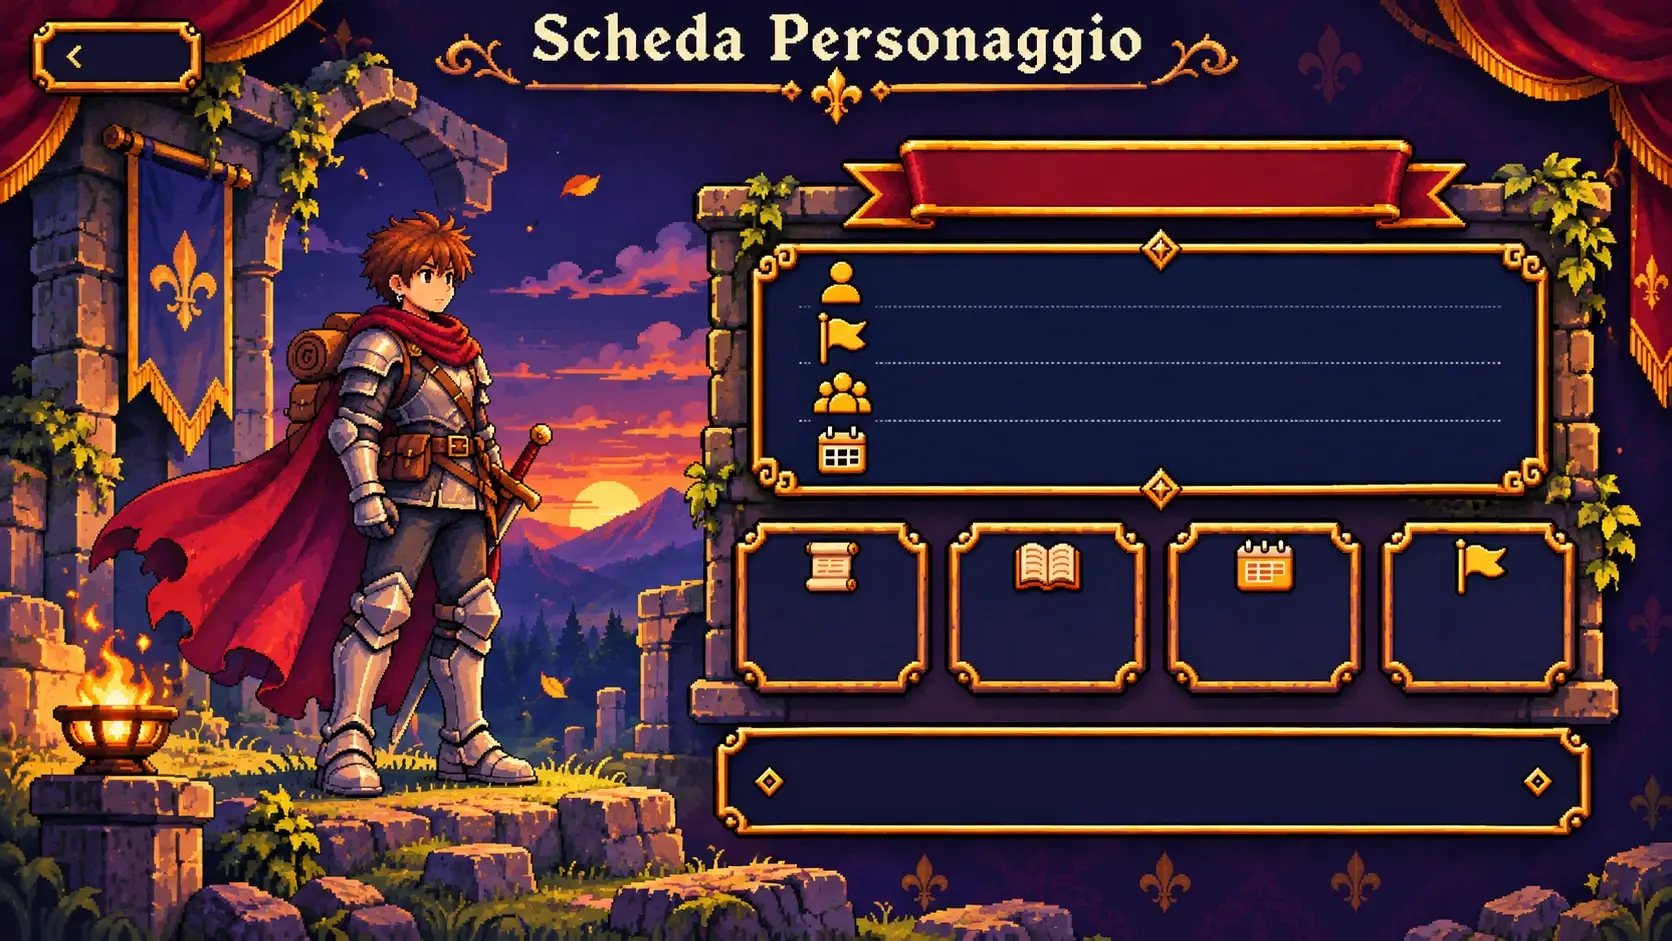
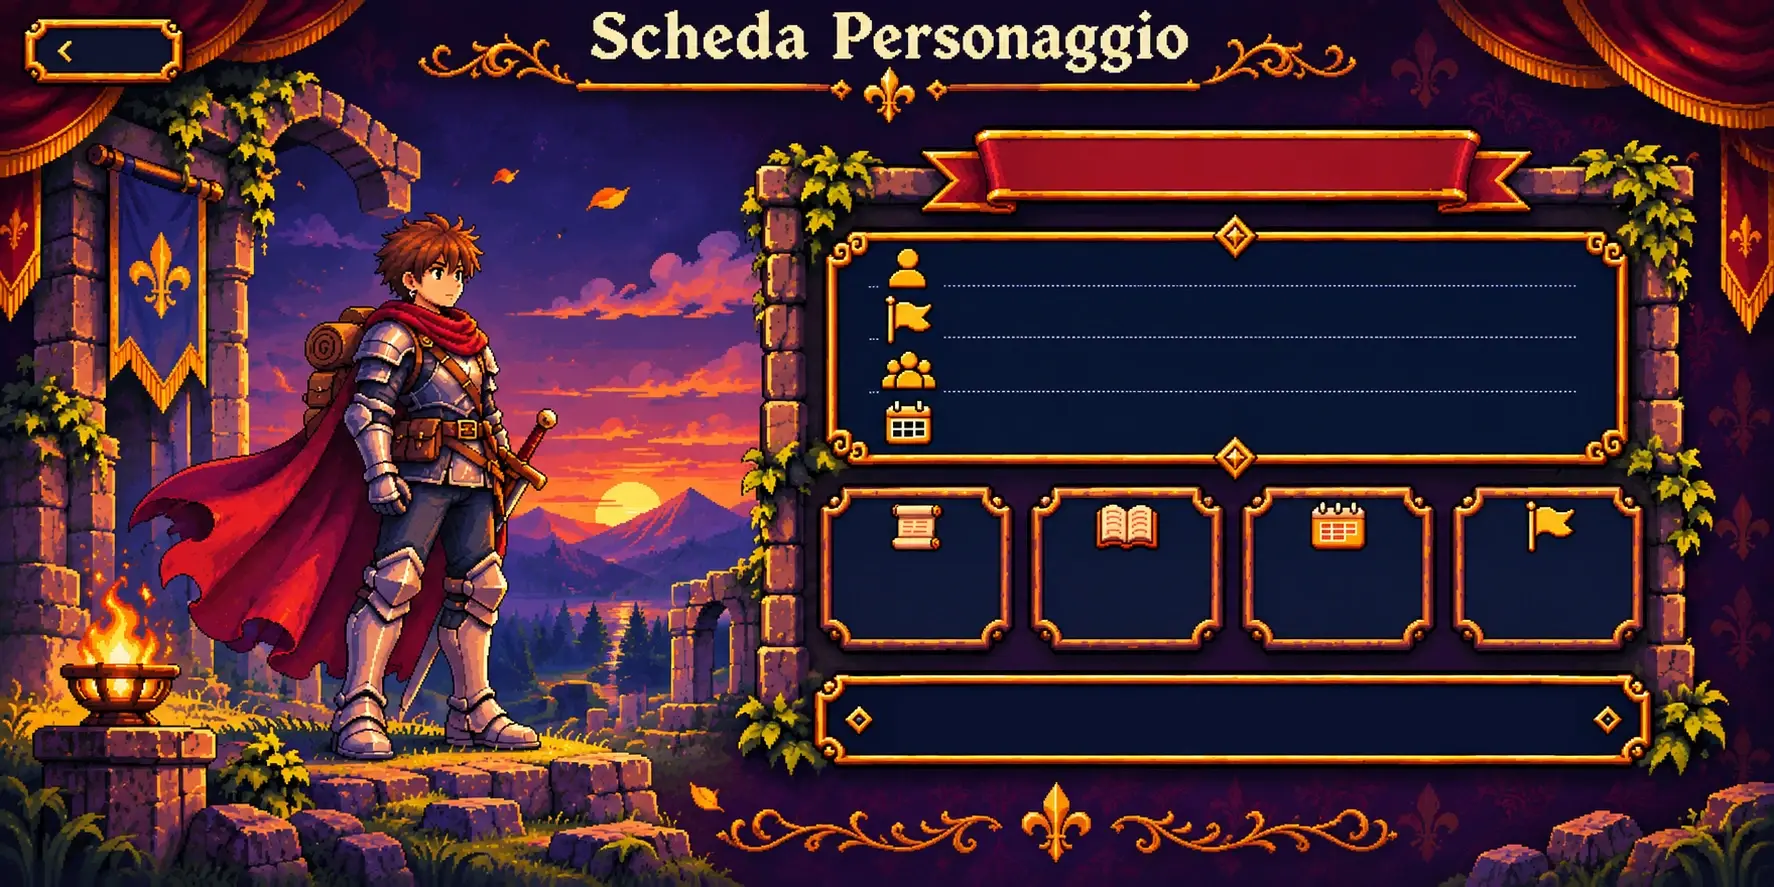
Chi sono: nuova immagine 2:1 per la scheda, con sfondo sfocato ai lati
Coordinate ricalcolate per 1774x887; nomi dei tutor allineati e più
piccoli per stare tra le linee; ai lati di schermi non 2:1 resta
l'immagine sfocata e scurita.

Claude-Session: https://claude.ai/code/session_01Ly8M64WoiNxbZKkFq6qyb5

diff --git a/index.html b/index.html
@@ -1100,49 +1100,49 @@
             <div class="char-stage">
                 <div class="char-board">
 
-                    <img class="char-art" src="immagini/scheda-pagina.webp" width="1672" height="941" alt="Scheda Personaggio: il cavaliere con il mantello rosso, la spada e l'orecchino davanti a un tramonto.">
+                    <img class="char-art" src="immagini/scheda-pagina.webp" width="1774" height="887" alt="Scheda Personaggio: il cavaliere con il mantello rosso, la spada e l'orecchino davanti a un tramonto.">
 
-                    <a class="char-el char-menu" href="#home" style="--x: 1.974%; --y: 2.338%; --w: 10.167%; --h: 7.651%" aria-label="Torna al menu"></a>
+                    <a class="char-el char-menu" href="#home" style="--x: 1.353%; --y: 2.029%; --w: 9.132%; --h: 7.441%" aria-label="Torna al menu"></a>
 
-                    <h2 class="char-el char-name" style="--x: 54.725%; --y: 15.409%; --w: 28.708%; --h: 6.589%">Lorenzo Carducci</h2>
+                    <h2 class="char-el char-name" style="--x: 55.524%; --y: 14.994%; --w: 27.508%; --h: 7.215%">Lorenzo Carducci</h2>
 
                     <dl class="char-data">
-                    <div class="char-el char-row" style="--x: 52.931%; --y: 27.736%; --w: 36.782%; --h: 4.676%">
+                    <div class="char-el char-row" style="--x: 53.551%; --y: 27.847%; --w: 36.077%; --h: 4.510%">
                         <dt>Classe</dt>
                         <dd>Stagista · Informatica</dd>
                     </div>
-                    <div class="char-el char-row" style="--x: 52.931%; --y: 33.581%; --w: 36.782%; --h: 4.676%">
+                    <div class="char-el char-row" style="--x: 53.551%; --y: 33.145%; --w: 36.077%; --h: 5.411%">
                         <dt>Gilda</dt>
                         <dd>Skilla</dd>
                     </div>
-                    <div class="char-el char-row" style="--x: 52.931%; --y: 38.363%; --w: 36.782%; --h: 6.164%">
+                    <div class="char-el char-row" style="--x: 53.551%; --y: 39.121%; --w: 36.077%; --h: 5.186%">
                         <dt>Alleati</dt>
                         <dd><span class="char-allies"><span>Guglielmo Lulli</span><small>tutor universitario</small><span>Silvia Innocenzi</span><small>tutor aziendale</small></span></dd>
                     </div>
-                    <div class="char-el char-row" style="--x: 52.931%; --y: 45.377%; --w: 36.782%; --h: 5.313%">
+                    <div class="char-el char-row" style="--x: 53.551%; --y: 44.983%; --w: 36.077%; --h: 5.637%">
                         <dt>Missione</dt>
                         <dd>dal 07/09/2026 al 23/12/2026</dd>
                     </div>
                     </dl>
 
-                    <div class="char-el char-stat" style="--x: 44.976%; --y: 63.549%; --w: 9.569%; --h: 8.927%">
+                    <div class="char-el char-stat" style="--x: 47.012%; --y: 63.134%; --w: 9.245%; --h: 9.019%">
                         <span class="char-stat-label">Livelli completati</span>
                         <strong class="char-stat-value"><span data-xp>0</span></strong>
                     </div>
-                    <div class="char-el char-stat" style="--x: 57.656%; --y: 63.549%; --w: 10.048%; --h: 8.927%">
+                    <div class="char-el char-stat" style="--x: 58.794%; --y: 63.134%; --w: 9.357%; --h: 9.019%">
                         <span class="char-stat-label">Falò accesi</span>
                         <strong class="char-stat-value"><span data-fires>0</span>/16</strong>
                     </div>
-                    <div class="char-el char-stat" style="--x: 70.694%; --y: 63.549%; --w: 9.809%; --h: 8.927%">
+                    <div class="char-el char-stat" style="--x: 70.800%; --y: 63.134%; --w: 9.132%; --h: 9.019%">
                         <span class="char-stat-label">Giorni di viaggio</span>
                         <strong class="char-stat-value"><span data-days-done>0</span>/<span data-days-total>108</span></strong>
                     </div>
-                    <div class="char-el char-stat" style="--x: 83.612%; --y: 63.549%; --w: 9.749%; --h: 8.927%">
+                    <div class="char-el char-stat" style="--x: 82.751%; --y: 63.134%; --w: 9.019%; --h: 9.019%">
                         <span class="char-stat-label">Giorni alla meta</span>
                         <strong class="char-stat-value"><span data-days-left>0</span></strong>
                     </div>
 
-                    <div class="hud-bar sheet-bar char-el char-bar" style="--x: 48.565%; --y: 81.296%; --w: 41.029%; --h: 3.507%" role="progressbar" aria-label="Settimane completate" aria-valuemin="0" aria-valuemax="16" aria-valuenow="0"></div>
+                    <div class="hud-bar sheet-bar char-el char-bar" style="--x: 51.015%; --y: 79.481%; --w: 37.260%; --h: 3.720%" role="progressbar" aria-label="Settimane completate" aria-valuemin="0" aria-valuemax="16" aria-valuenow="0"></div>
 
                 </div>
             </div>

diff --git a/css/pixel.css b/css/pixel.css
@@ -4474,7 +4474,7 @@ body[data-screen="viaggio"] main {
 /* =========================================================
    SCHEDA PERSONAGGIO: un'immagine a tutto schermo con il cavaliere
    a sinistra e, a destra, i riquadri vuoti dove scrivo i dati.
-   --k = 1 px dell'immagine (1672 px di larghezza)
+   --k = 1 px dell'immagine (1774 px di larghezza)
    ========================================================= */
 
 .character.char-scene {
@@ -4484,6 +4484,16 @@ body[data-screen="viaggio"] main {
     padding: 0;
     overflow: hidden;
     background: #14092b;
+}
+
+/* Se lo schermo non è esattamente 2:1, ai lati resta la stessa immagine
+   ingrandita, sfocata e scurita, invece di una striscia piatta */
+.character.char-scene::before {
+    content: "";
+    position: absolute;
+    inset: -24px;
+    background: url("../immagini/scheda-pagina.webp") center / cover no-repeat;
+    filter: blur(16px) brightness(0.5) saturate(1.1);
 }
 
 body[data-screen="personaggio"] main {
@@ -4499,9 +4509,9 @@ body[data-screen="personaggio"] .back-menu {
     position: absolute;
     left: 50%;
     top: 50%;
-    width: min(100vw, calc(100vh * 1672 / 941));
-    width: min(100vw, calc(100svh * 1672 / 941));
-    aspect-ratio: 1672 / 941;
+    width: min(100vw, calc(100vh * 2));
+    width: min(100vw, calc(100svh * 2));
+    aspect-ratio: 2 / 1;
     transform: translate(-50%, -50%);
     container-type: inline-size;
 }
@@ -4509,7 +4519,7 @@ body[data-screen="personaggio"] .back-menu {
 .char-board {
     position: absolute;
     inset: 0;
-    --k: calc(100cqw / 1672);
+    --k: calc(100cqw / 1774);
     font-family: var(--font);
 }
 
@@ -4586,9 +4596,9 @@ body[data-screen="personaggio"] .back-menu {
     display: grid;
     grid-template-columns: max-content max-content;
     column-gap: calc(28 * var(--k));
-    row-gap: calc(1 * var(--k));
+    row-gap: 0;
     align-items: center;
-    font-size: calc(25 * var(--k));
+    font-size: calc(22 * var(--k));
     line-height: 1.05;
 }
 
@@ -4670,8 +4680,8 @@ body[data-screen="personaggio"] .back-menu {
         top: auto;
         height: 100vh;
         height: 100svh;
-        width: calc(100vh * 1672 / 941);
-        width: calc(100svh * 1672 / 941);
+        width: calc(100vh * 2);
+        width: calc(100svh * 2);
         aspect-ratio: auto;
         transform: none;
     }

diff --git a/js/home.js b/js/home.js
@@ -214,8 +214,8 @@
         if (event.detail !== "personaggio") return;
         const scene = document.querySelector(".char-scene");
         if (scene && scene.scrollWidth > scene.clientWidth) {
-            // parte dal bordo sinistro dei dati (circa a 700 px su 1672), non dal fondo
-            scene.scrollLeft = scene.scrollWidth * 700 / 1672;
+            // parte dal bordo sinistro dei dati (circa a 810 px su 1774), non dal fondo
+            scene.scrollLeft = scene.scrollWidth * 810 / 1774;
         }
     });
 })();
